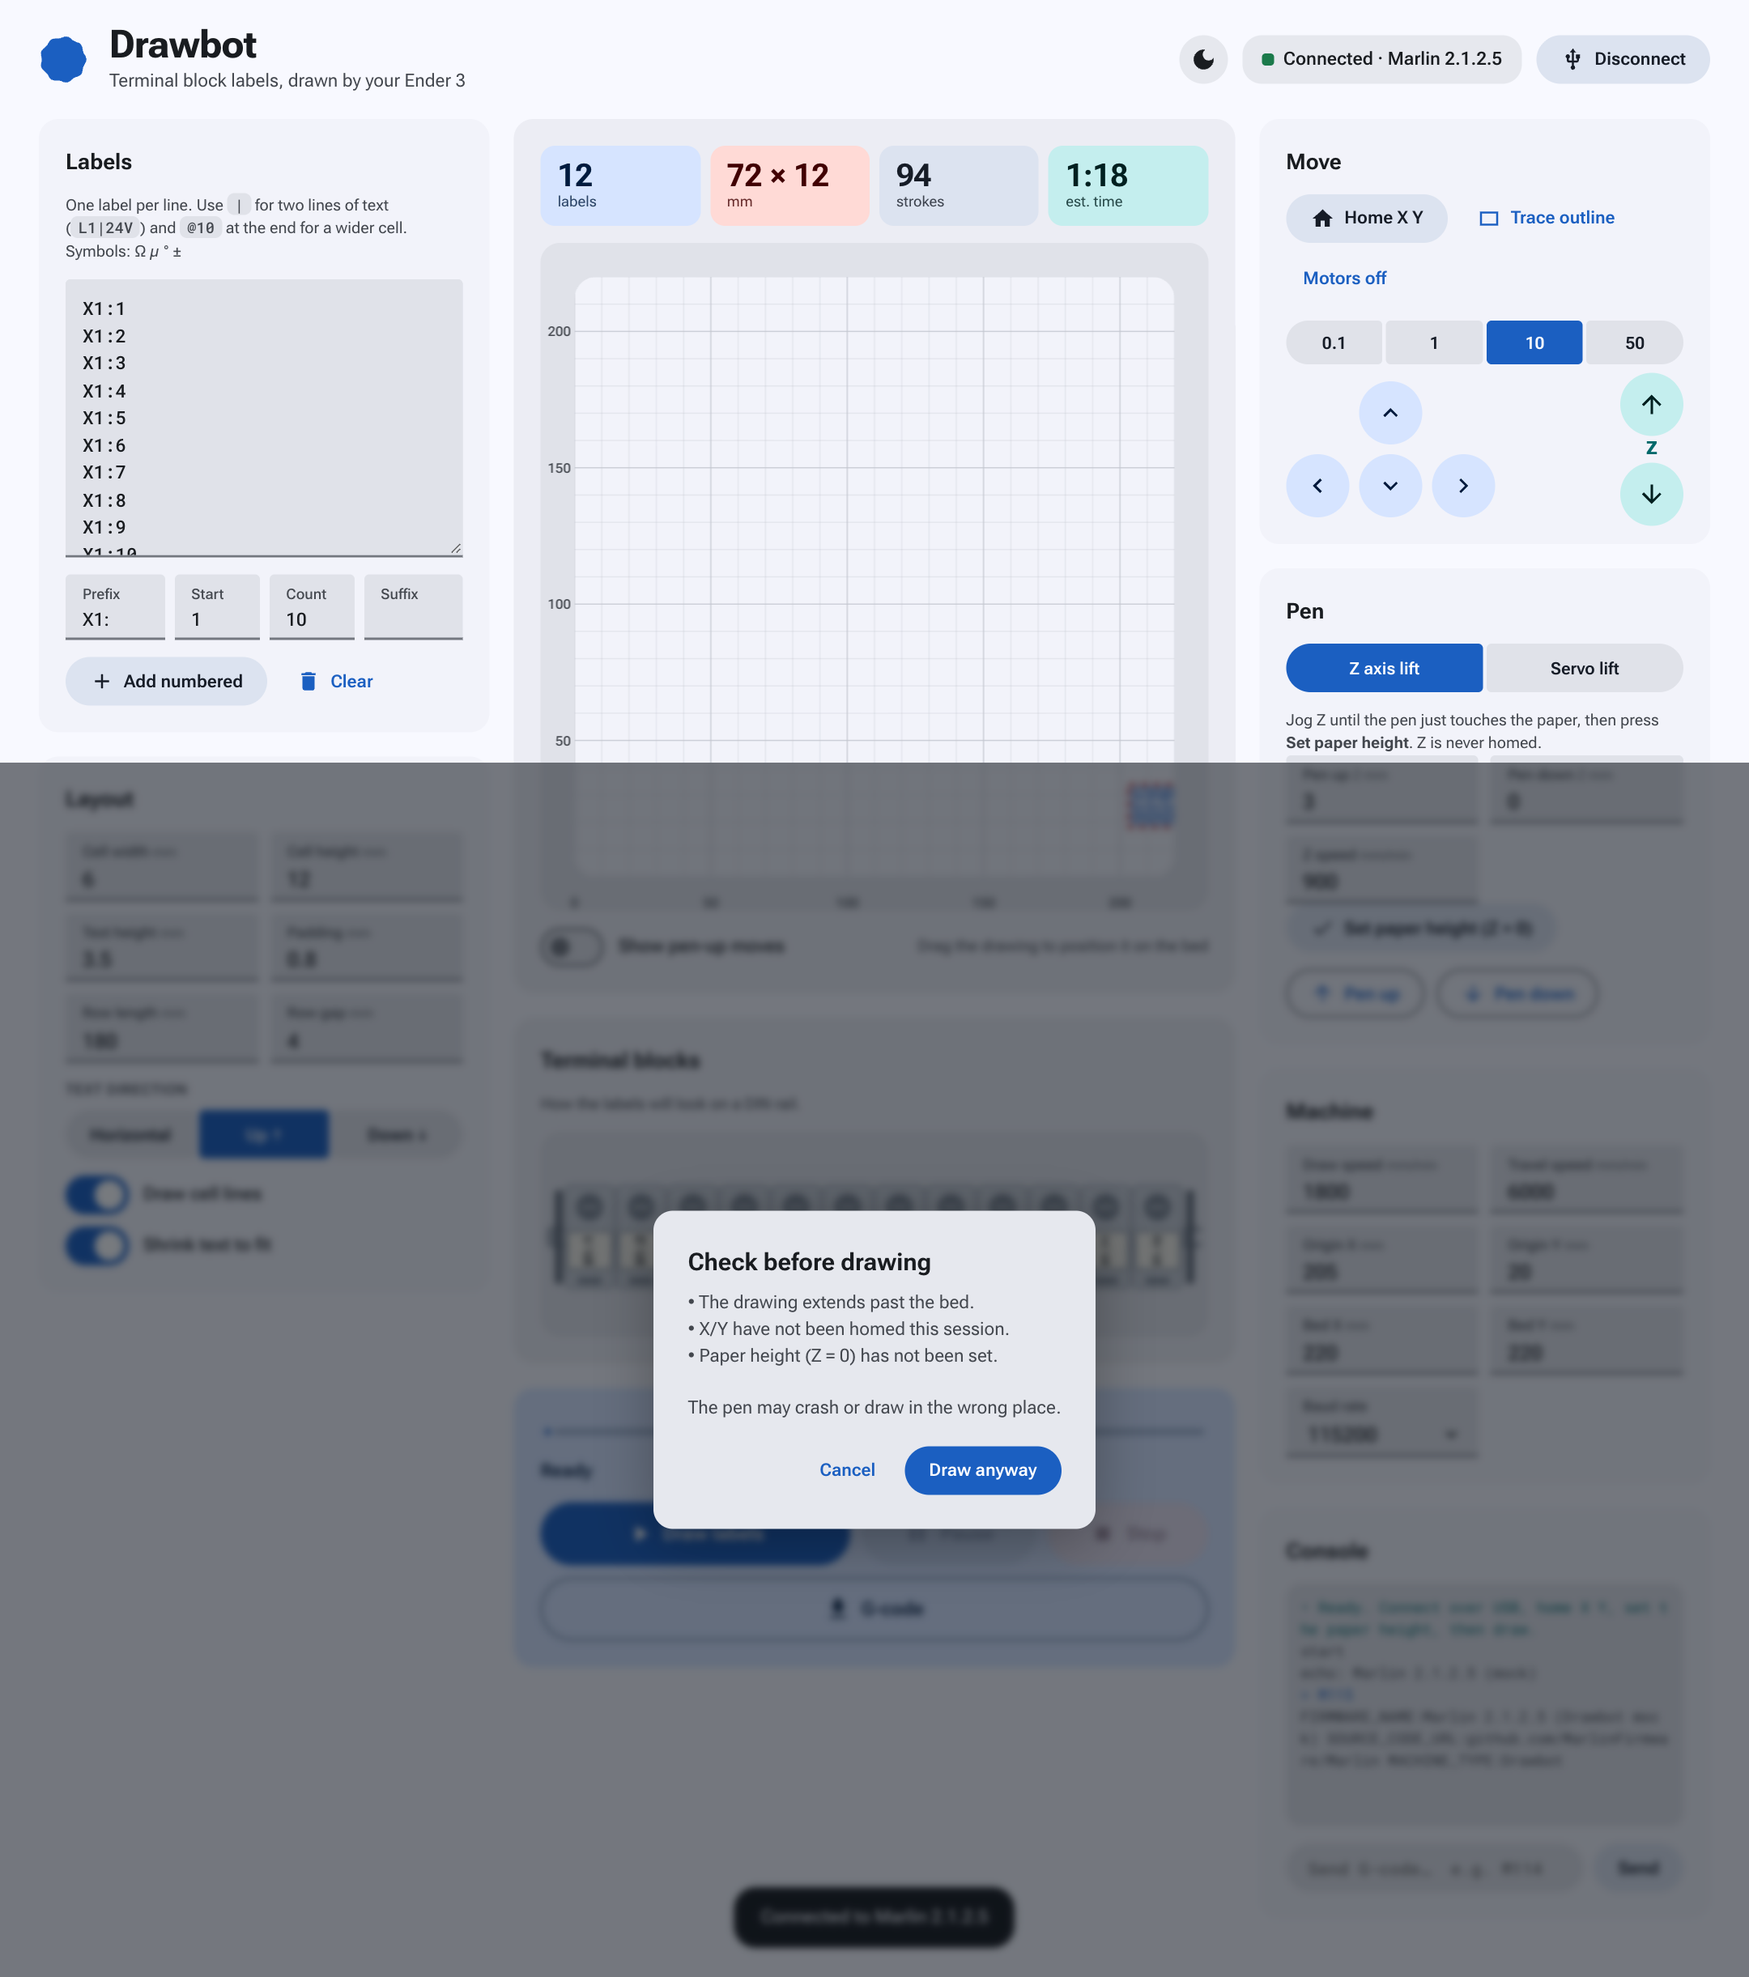
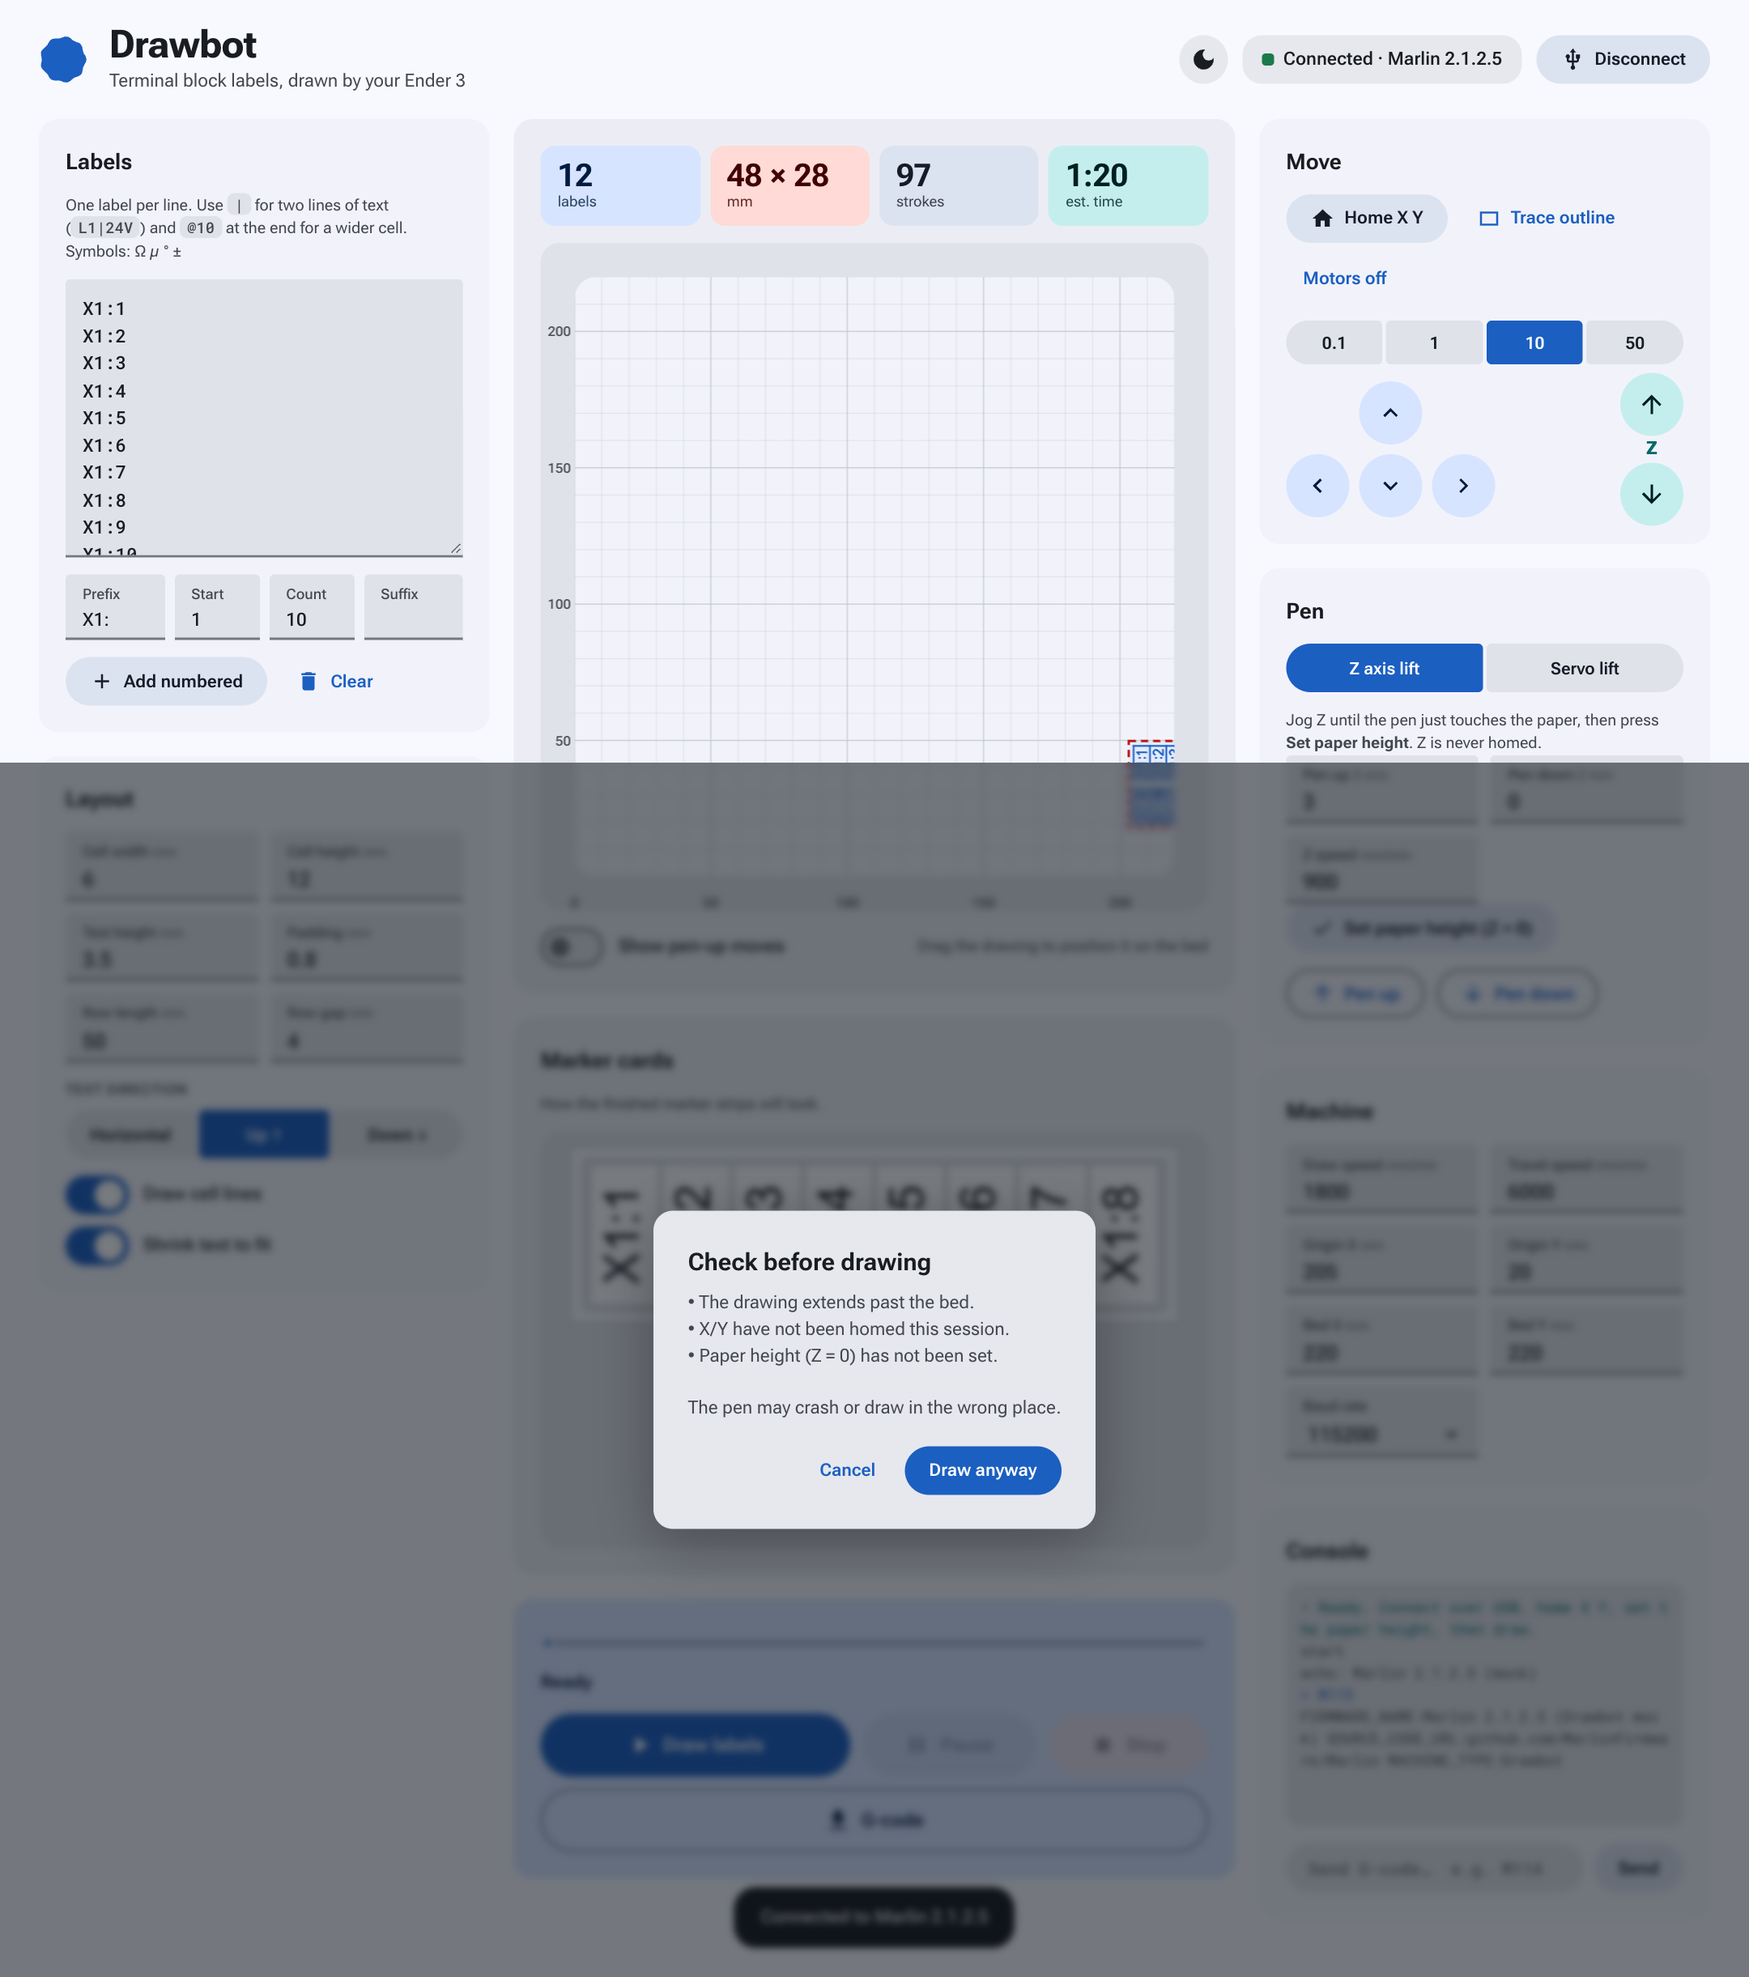
Show labels as white marker cards; defaults match physical 5 mm strips (10 per row, horizontal text)

diff --git a/web/app.js b/web/app.js
@@ -185,7 +185,7 @@
     if (!saved) setTheme(e.matches ? 'dark' : 'light', false);
   });
 
-  // ---------------------------------------------------------------- terminal block visualisation
+  // ---------------------------------------------------------------- marker card visualisation
   const tv = $('tbView'), tx = tv.getContext('2d');
   function drawBlocks() {
     const o = layoutOpts(), cells = window.DBLayout.parseLabels($('labels').value, o.cellW);
@@ -200,57 +200,39 @@
       row.push(c); x += c.w;
     }
     if (row.length) { rows.push(row); maxLen = Math.max(maxLen, x); }
-    const k = Math.min(avail / Math.max(maxLen, 1), 9);          // px per mm
-    const blockH = Math.max(o.cellH * k, 70), railH = 16, rowH = blockH + railH * 2 + 28;
+    const k = Math.min((avail - 40) / Math.max(maxLen, 1), 14);   // px per mm
+    const cellH = Math.max(o.cellH * k, 44), railH = 14, rowH = cellH + railH * 2 + 14;
     const H = Math.max(rows.length, 1) * rowH + 12;
     tv.style.height = H + 'px'; tv.width = W * dpr; tv.height = H * dpr;
     tx.setTransform(dpr, 0, 0, dpr, 0, 0); tx.clearRect(0, 0, W, H);
     if (!rows.length) { tx.fillStyle = css('--on-surface-variant'); tx.font = '500 14px Roboto Flex, sans-serif'; tx.textAlign = 'center'; tx.fillText('Add some labels to see them here', W / 2, H / 2); return; }
     const dark = document.documentElement.dataset.theme === 'dark';
-    const body = dark ? '#3a3f47' : '#c9ced6', bodyEdge = dark ? '#5a616c' : '#8f97a3';
-    const marker = '#f4f1e8', ink = '#14171c';
-    const rail = dark ? '#8a929e' : '#a9b0ba', railEdge = dark ? '#5c636d' : '#7b838f';
+    const frame = dark ? '#dfe3e8' : '#f6f7f9', edge = dark ? '#9aa1ab' : '#b9bfc8', cellFill = '#ffffff', ink = '#14171c';
     rows.forEach((r, ri) => {
-      const total = r.reduce((s, c) => s + c.w, 0) * k, x0 = (W - total) / 2, y0 = 8 + ri * rowH + 14 + railH;
-      // DIN rail behind the blocks
-      const ry = y0 + blockH / 2 - railH / 2;
-      tx.fillStyle = rail; tx.strokeStyle = railEdge; tx.lineWidth = 1;
-      tx.beginPath(); tx.roundRect(x0 - 14, ry, total + 28, railH, 3); tx.fill(); tx.stroke();
+      const total = r.reduce((s, c) => s + c.w, 0) * k, x0 = (W - total) / 2, y0 = 6 + ri * rowH + railH;
+      // white carrier frame (ladder rails above and below the strip)
+      tx.fillStyle = frame; tx.strokeStyle = edge; tx.lineWidth = 1;
+      tx.beginPath(); tx.roundRect(x0 - 16, y0 - railH, total + 32, cellH + railH * 2, 3); tx.fill(); tx.stroke();
       tx.fillStyle = css('--sc-highest');
-      for (let sx = x0 - 6; sx < x0 + total + 6; sx += 26) { tx.beginPath(); tx.roundRect(sx, ry + 4, 14, railH - 8, 4); tx.fill(); }
+      tx.beginPath(); tx.roundRect(x0 - 4, y0 - 3, total + 8, cellH + 6, 2); tx.fill(); tx.stroke();
       let x = x0;
       for (const c of r) {
-        const w = c.w * k - 1.5, earth = c.lines.join('').toUpperCase() === 'PE';
-        // block body
-        tx.fillStyle = earth ? '#c6b829' : body; tx.strokeStyle = bodyEdge; tx.lineWidth = 1;
-        tx.beginPath(); tx.roundRect(x, y0, w, blockH, 5); tx.fill(); tx.stroke();
-        if (earth) { tx.fillStyle = '#2f8f4e'; tx.fillRect(x + 1, y0 + blockH * .55, w - 2, blockH * .45 - 1); }
-        // screw head + wire entry
-        const sr = Math.min(w * .3, 11), sy = y0 + sr + 7;
-        tx.fillStyle = dark ? '#20242a' : '#7c8591'; tx.beginPath(); tx.arc(x + w / 2, sy, sr, 0, 7); tx.fill();
-        tx.strokeStyle = dark ? '#aeb5c0' : '#eef0f3'; tx.lineWidth = 1.6; tx.beginPath(); tx.moveTo(x + w / 2 - sr * .6, sy); tx.lineTo(x + w / 2 + sr * .6, sy); tx.stroke();
-        tx.fillStyle = dark ? '#20242a' : '#7c8591'; tx.beginPath(); tx.roundRect(x + w * .25, y0 + blockH - 9, w * .5, 5, 2); tx.fill();
-        // marker strip with the label
-        const my = y0 + sr * 2 + 16, mh = blockH - (sr * 2 + 16) - 16;
-        if (mh > 14) {
-          tx.fillStyle = marker; tx.strokeStyle = bodyEdge; tx.beginPath(); tx.roundRect(x + 2, my, w - 4, mh, 3); tx.fill(); tx.stroke();
-          tx.save(); tx.beginPath(); tx.rect(x + 2, my, w - 4, mh); tx.clip();
-          tx.translate(x + w / 2, my + mh / 2); if (o.rot) tx.rotate(o.rot * Math.PI / 180 * -1);
-          const L = (o.rot ? mh : w - 4) - 6, T = (o.rot ? w - 4 : mh) - 4, n = c.lines.length;
-          let fs = Math.min(T / (n * 1.15), o.textH * k * 1.2, 30);
-          tx.fillStyle = ink; tx.textAlign = 'center'; tx.textBaseline = 'middle';
-          const font = s => `700 ${s}px "Roboto Mono", ui-monospace, monospace`;
-          tx.font = font(fs);
-          const widest = Math.max(0, ...c.lines.map(t => tx.measureText(t).width));
-          if (widest > L) { fs *= L / widest; tx.font = font(fs); }
-          c.lines.forEach((t, i) => tx.fillText(t, 0, (i - (n - 1) / 2) * fs * 1.15));
-          tx.restore();
-        }
-        x += c.w * k;
+        const w = c.w * k;
+        tx.fillStyle = cellFill; tx.strokeStyle = edge; tx.lineWidth = 1;
+        tx.beginPath(); tx.rect(x + .5, y0 + .5, w - 1, cellH - 1); tx.fill(); tx.stroke();
+        tx.save(); tx.beginPath(); tx.rect(x + 1, y0 + 1, w - 2, cellH - 2); tx.clip();
+        tx.translate(x + w / 2, y0 + cellH / 2); if (o.rot) tx.rotate(-o.rot * Math.PI / 180);
+        const L = (o.rot ? cellH : w) - 6, T = (o.rot ? w : cellH) - 6, n = c.lines.length;
+        let fs = Math.min(T / (n * 1.2), o.textH * k * 1.3, 40);
+        tx.fillStyle = ink; tx.textAlign = 'center'; tx.textBaseline = 'middle';
+        const font = z => `500 ${z}px Arial, Helvetica, sans-serif`;
+        tx.font = font(fs);
+        const widest = Math.max(0, ...c.lines.map(t => tx.measureText(t).width));
+        if (widest > L) { fs *= L / widest; tx.font = font(fs); }
+        c.lines.forEach((t, i) => tx.fillText(t, 0, (i - (n - 1) / 2) * fs * 1.2));
+        tx.restore();
+        x += w;
       }
-      // end stops
-      tx.fillStyle = dark ? '#6b7380' : '#5d6672';
-      [x0 - 8, x0 + total + 2].forEach(ex => { tx.beginPath(); tx.roundRect(ex, y0 + 4, 6, blockH - 8, 2); tx.fill(); });
     });
   }
 

diff --git a/web/index.html b/web/index.html
@@ -70,17 +70,17 @@
     <article class="card">
       <h2>Layout</h2>
       <div class="fields">
-        <label class="field"><span>Cell width <small>mm</small></span><input id="cellW" type="number" step="0.1" value="6"></label>
-        <label class="field"><span>Cell height <small>mm</small></span><input id="cellH" type="number" step="0.1" value="12"></label>
+        <label class="field"><span>Cell width <small>mm</small></span><input id="cellW" type="number" step="0.1" value="5"></label>
+        <label class="field"><span>Cell height <small>mm</small></span><input id="cellH" type="number" step="0.1" value="10"></label>
         <label class="field"><span>Text height <small>mm</small></span><input id="textH" type="number" step="0.1" value="3.5"></label>
         <label class="field"><span>Padding <small>mm</small></span><input id="pad" type="number" step="0.1" value="0.8"></label>
-        <label class="field"><span>Row length <small>mm</small></span><input id="rowLen" type="number" step="1" value="180"></label>
+        <label class="field"><span>Row length <small>mm</small></span><input id="rowLen" type="number" step="1" value="50"></label>
         <label class="field"><span>Row gap <small>mm</small></span><input id="rowGap" type="number" step="0.5" value="4"></label>
       </div>
       <div class="label-s">Text direction</div>
       <div class="seg" id="rotSeg" role="radiogroup">
-        <button type="button" data-v="0" role="radio">Horizontal</button>
-        <button type="button" data-v="90" role="radio" class="on">Up ↑</button>
+        <button type="button" data-v="0" role="radio" class="on">Horizontal</button>
+        <button type="button" data-v="90" role="radio">Up ↑</button>
         <button type="button" data-v="-90" role="radio">Down ↓</button>
       </div>
       <div class="switches">
@@ -107,8 +107,8 @@
     </article>
 
     <article class="card tb">
-      <h2>Terminal blocks</h2>
-      <p class="hint">How the labels will look on a DIN rail.</p>
+      <h2>Marker cards</h2>
+      <p class="hint">How the finished marker strips will look.</p>
       <div class="tb-wrap"><canvas id="tbView"></canvas></div>
     </article>
 

diff --git a/docs/TEST_RESULTS.md b/docs/TEST_RESULTS.md
@@ -16,14 +16,14 @@ Generated by `tests/e2e.js` (headless Chrome → real UI → simulated Marlin, `
 
 | | Check | Detail |
 |---|---|---|
-| ✅ | layout produced every label | (12/12 labels, 94 strokes, 563 mm of ink) |
-| ✅ | design fits on the bed | (72×12 mm at 20,20) |
+| ✅ | layout produced every label | (12/12 labels, 97 strokes, 575 mm of ink) |
+| ✅ | design fits on the bed | (48×28 mm at 20,20) |
 | ✅ | connected and detected Marlin | ("Connected · Marlin 2.1.2.5") |
-| ✅ | every G-code line was acknowledged | (612/612 commands in 0.1s) |
+| ✅ | every G-code line was acknowledged | (624/624 commands in 0.1s) |
 | ✅ | never overflowed Marlin's 128-byte RX buffer | (peak 74 bytes, 0 overflows) |
-| ✅ | ink length matches design | (562.5 mm drawn vs 562.5 mm designed) |
-| ✅ | one pen-down per stroke | (94/94) |
-| ✅ | drawn bounding box lands at the origin offset | (X 20.0–92.0, Y 20.0–32.0 mm; max error 0.000 mm) |
+| ✅ | ink length matches design | (574.5 mm drawn vs 574.5 mm designed) |
+| ✅ | one pen-down per stroke | (97/97) |
+| ✅ | drawn bounding box lands at the origin offset | (X 20.0–68.0, Y 20.0–48.0 mm; max error 0.000 mm) |
 | ✅ | pen lifted and parked at the end | (pos 0,220, pen up) |
 | ✅ | no JS errors in the page |  |
 
@@ -33,14 +33,14 @@ Generated by `tests/e2e.js` (headless Chrome → real UI → simulated Marlin, `
 
 | | Check | Detail |
 |---|---|---|
-| ✅ | layout produced every label | (11/11 labels, 80 strokes, 681 mm of ink) |
-| ✅ | design fits on the bed | (98×14 mm at 20,20) |
+| ✅ | layout produced every label | (11/11 labels, 86 strokes, 709 mm of ink) |
+| ✅ | design fits on the bed | (45×50 mm at 20,20) |
 | ✅ | connected and detected Marlin | ("Connected · Marlin 2.1.2.5") |
-| ✅ | every G-code line was acknowledged | (760/760 commands in 0.1s) |
-| ✅ | never overflowed Marlin's 128-byte RX buffer | (peak 78 bytes, 0 overflows) |
-| ✅ | ink length matches design | (681.4 mm drawn vs 681.4 mm designed) |
-| ✅ | one pen-down per stroke | (80/80) |
-| ✅ | drawn bounding box lands at the origin offset | (X 20.0–118.0, Y 20.0–34.0 mm; max error 0.000 mm) |
+| ✅ | every G-code line was acknowledged | (784/784 commands in 0.1s) |
+| ✅ | never overflowed Marlin's 128-byte RX buffer | (peak 74 bytes, 0 overflows) |
+| ✅ | ink length matches design | (709.3 mm drawn vs 709.4 mm designed) |
+| ✅ | one pen-down per stroke | (86/86) |
+| ✅ | drawn bounding box lands at the origin offset | (X 20.0–65.0, Y 20.0–70.0 mm; max error 0.000 mm) |
 | ✅ | pen lifted and parked at the end | (pos 0,220, pen up) |
 | ✅ | no JS errors in the page |  |
 
@@ -70,7 +70,7 @@ Generated by `tests/e2e.js` (headless Chrome → real UI → simulated Marlin, `
 | ✅ | layout produced every label | (40/40 labels, 133 strokes, 1294 mm of ink) |
 | ✅ | design fits on the bed | (100×24 mm at 20,20) |
 | ✅ | connected and detected Marlin | ("Connected · Marlin 2.1.2.5") |
-| ✅ | every G-code line was acknowledged | (2110/2110 commands in 0.3s) |
+| ✅ | every G-code line was acknowledged | (2110/2110 commands in 0.2s) |
 | ✅ | never overflowed Marlin's 128-byte RX buffer | (peak 78 bytes, 0 overflows) |
 | ✅ | ink length matches design | (1293.7 mm drawn vs 1293.6 mm designed) |
 | ✅ | one pen-down per stroke | (133/133) |
@@ -85,13 +85,13 @@ Generated by `tests/e2e.js` (headless Chrome → real UI → simulated Marlin, `
 | | Check | Detail |
 |---|---|---|
 | ✅ | layout produced every label | (1/1 labels, 2 strokes, 9 mm of ink) |
-| ✅ | design fits on the bed | (6×12 mm at 20,20) |
+| ✅ | design fits on the bed | (5×10 mm at 20,20) |
 | ✅ | connected and detected Marlin | ("Connected · Marlin 2.1.2.5") |
 | ✅ | every G-code line was acknowledged | (14/14 commands in 0.1s) |
-| ✅ | never overflowed Marlin's 128-byte RX buffer | (peak 71 bytes, 0 overflows) |
-| ✅ | ink length matches design | (8.8 mm drawn vs 8.8 mm designed) |
+| ✅ | never overflowed Marlin's 128-byte RX buffer | (peak 68 bytes, 0 overflows) |
+| ✅ | ink length matches design | (8.5 mm drawn vs 8.5 mm designed) |
 | ✅ | one pen-down per stroke | (2/2) |
-| ✅ | drawn bounding box lands at the origin offset | (X 21.3–24.8, Y 24.8–27.2 mm; max error 0.003 mm) |
+| ✅ | drawn bounding box lands at the origin offset | (X 20.8–24.2, Y 23.9–26.1 mm; max error 0.003 mm) |
 | ✅ | pen lifted and parked at the end | (pos 0,220, pen up) |
 | ✅ | no JS errors in the page |  |
 
@@ -99,9 +99,9 @@ Generated by `tests/e2e.js` (headless Chrome → real UI → simulated Marlin, `
 
 | | Check | Detail |
 |---|---|---|
-| ✅ | no commands run while paused | (227 → 227) |
+| ✅ | no commands run while paused | (232 → 232) |
 | ✅ | UI reports Done only after the last command executed |  |
-| ✅ | job completes after resume with correct ink | (562.5 vs 562.5 mm) |
+| ✅ | job completes after resume with correct ink | (574.5 vs 574.5 mm) |
 
 ## Stop
 
